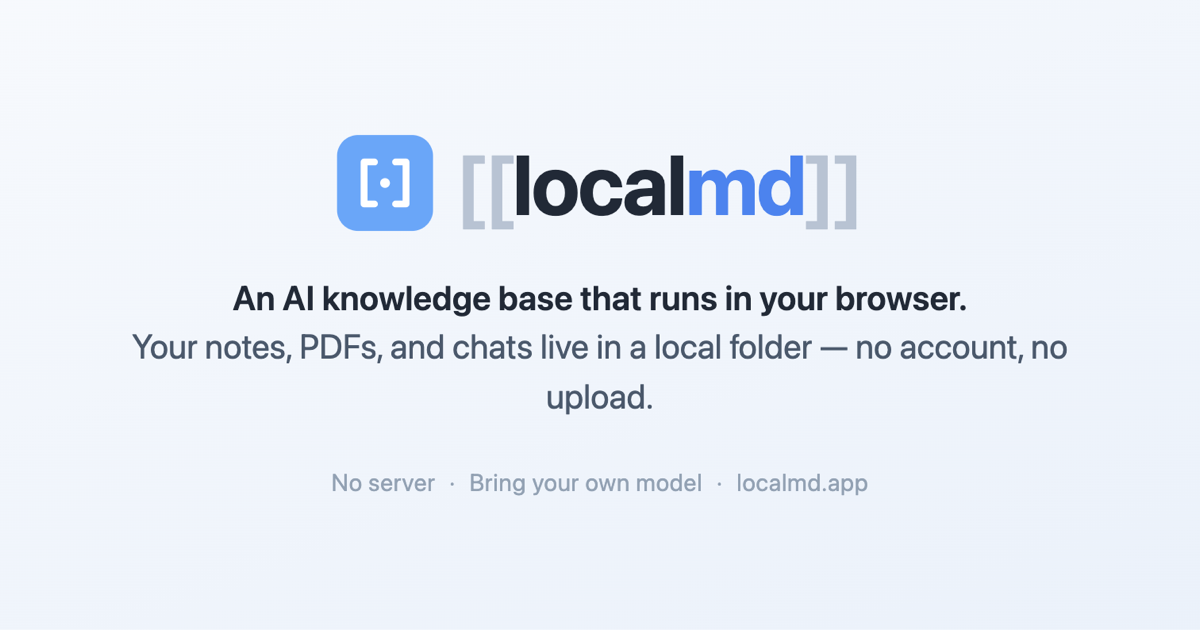
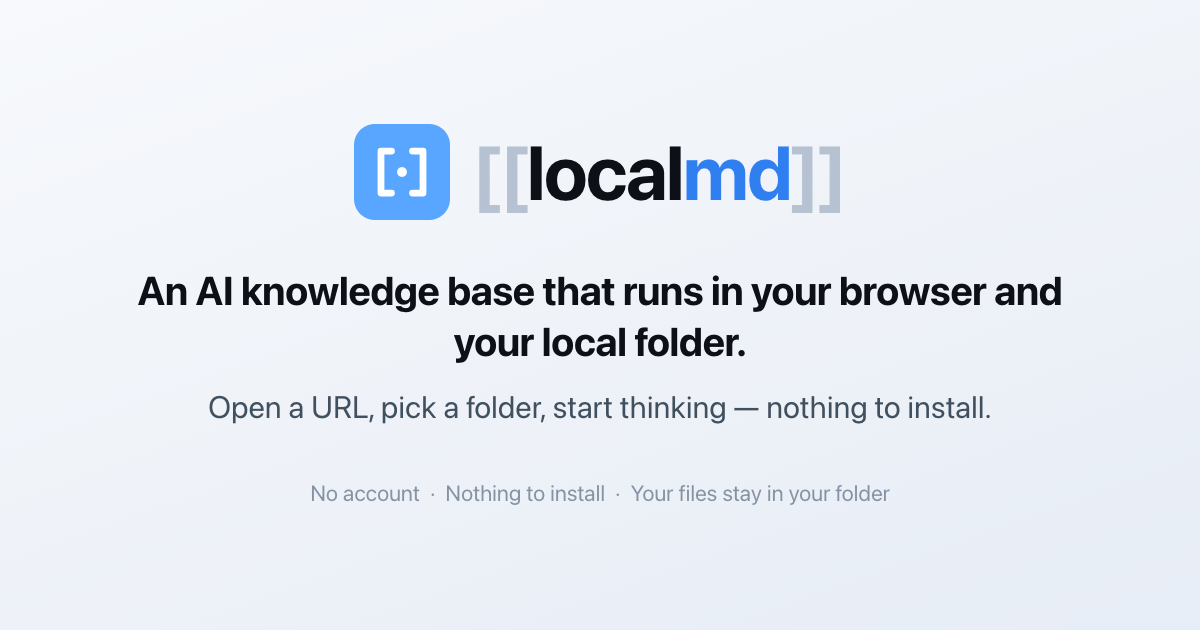
chore(og): the link preview says the sentence every other surface says
The image a shared localmd URL unfurls into read "Your notes, PDFs, and
chats live in a local folder — no account, no upload". Nothing there is
false, and it is not the one-liner. The message house's whole argument for
keeping that sentence byte-identical is that repetition compounds, and
this is the copy most people meet before any of the others — in a feed, a
chat, a Product Hunt comment. It now carries both sentences verbatim.

Generated rather than drawn once, for the same reason as the landing
imagery: a picture of a sentence goes stale silently when the sentence
changes. `npm run shoot:og` renders scripts/og.html at 1200x630, the size
index.html already declares, at scale factor 1 — a 2x file would be a
2400-wide image claiming to be 1200 wide.

Light, while the app and the launch cards are dark: this one is never seen
beside them, only inside somebody else's timeline, where a white card has
read cleanly since launch. 350KB down to 152KB, incidentally; the service
worker still skips it, since only crawlers fetch it.

diff --git a/scripts/og.html b/scripts/og.html
@@ -1,0 +1,52 @@
+<!doctype html><html><head><meta charset="utf-8"><style>
+/* The link preview card — what a shared localmd URL looks like in a feed,
+   a chat, or a Product Hunt comment. Rendered by shoot-og.mjs into
+   public/og.png at 1200x630, the size the og:image meta tags declare.
+
+   The words are the message house's one-liner, both sentences, verbatim. An
+   earlier version of this image said "your notes, PDFs, and chats live in a
+   local folder — no account, no upload", which reads fine and is not the
+   sentence every other surface uses. A one-liner only compounds if it is
+   byte-identical everywhere, and this image is the copy most people see
+   before they see any of the others.
+
+   Light, while the app and the gallery cards are dark: this one is not shown
+   next to them, it is shown inside somebody else's timeline, and it has read
+   as a legible white card there since launch. */
+* { margin:0; padding:0; box-sizing:border-box; }
+html,body { width:1200px; height:630px; overflow:hidden; }
+body {
+  background:linear-gradient(160deg,#f7f9fc 0%,#eef2f8 55%,#e7edf6 100%);
+  color:#0d1117;
+  font-family:-apple-system,BlinkMacSystemFont,"Segoe UI",Roboto,"Helvetica Neue",Arial,sans-serif;
+  -webkit-font-smoothing:antialiased;
+  display:flex; flex-direction:column; align-items:center; justify-content:center;
+  padding:0 84px; text-align:center;
+}
+.mark { display:flex; align-items:center; gap:22px; margin-bottom:44px; }
+.mark svg { width:96px; height:96px; display:block; }
+.word { font-size:76px; font-weight:700; letter-spacing:-.02em; line-height:1; }
+.word .br { color:#b6c2d2; }
+.word .b { color:#0d1117; }
+.word .i { color:#2f7ff0; }
+h1 { font-size:40px; line-height:1.28; font-weight:700; letter-spacing:-.015em; max-width:980px; }
+.sub { margin-top:20px; font-size:31px; line-height:1.35; color:#41505f; max-width:960px; }
+.foot { margin-top:52px; font-size:22px; color:#8593a4; }
+.foot b { font-weight:400; color:#8593a4; }
+</style></head>
+<body>
+<div class="mark">
+  <svg xmlns="http://www.w3.org/2000/svg" viewBox="0 0 128 128">
+    <rect width="128" height="128" rx="28" fill="#58a6ff"/>
+    <g fill="none" stroke="#fff" stroke-width="9" stroke-linecap="round" stroke-linejoin="round">
+      <path d="M50 36H36v56h14"/>
+      <path d="M78 36h14v56H78"/>
+    </g>
+    <circle cx="64" cy="64" r="6.5" fill="#fff"/>
+  </svg>
+  <div class="word"><span class="br">[[</span><span class="b">local</span><span class="i">md</span><span class="br">]]</span></div>
+</div>
+<h1>An AI knowledge base that runs in your browser and your local folder.</h1>
+<div class="sub">Open a URL, pick a folder, start thinking — nothing to install.</div>
+<div class="foot">No account&nbsp; ·&nbsp; Nothing to install&nbsp; ·&nbsp; Your files stay in your folder</div>
+</body></html>
